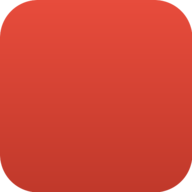
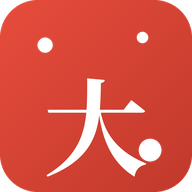
fix(v29): 修复状态栏卡死 + 补齐 PWA 资源 + 同步 26126 期数据
1) 状态栏永远卡在'拉取中...'
   - app.js 调用了不存在的 this.checkDataStatus(),实际方法名是 checkDataFreshness
     → 一旦 fetchFromCloud 抛错就 TypeError,状态栏无法恢复
   - fetch(ep) 无超时,CF Pages 上 Netlify 端点返回 HTML 兜底页导致长时间挂起
   - 修复:加 AbortController 超时(6s)+ 校验 Content-Type + finally 兜底恢复状态栏

2) PWA 资源缺失
   - sw.js 从未部署 → SW 注册失败 + 'unsupported MIME type (text/html)' 报错
   - icon-180.png / icon-512.png / favicon.ico 均 404(实际返回 index.html)
   - 新增按 icon.svg 设计生成的三尺寸 PNG 图标(白'大'字 + 红渐变圆角方块)

3) 文案数字错误
   - index.html / app.js 写'13 个杀号公式',实际为 15 个(前区 10 + 后区 5)

4) 数据同步
   - 追加 2026126 期 (2026-11-04, 前区 05 11 17 25 34, 后区 04 06),累计 534 期

diff --git a/v29-site/sw.js b/v29-site/sw.js
@@ -1,0 +1,119 @@
+// Service Worker for 大乐透专业智能杀号系统 v29
+// 策略:文档网络优先(失败用缓存兜底),静态资源缓存优先(后台异步更新)
+//
+// 注意:预缓存列表必须与 v29 站点的实际文件结构一致。
+// cache.addAll() 遇到任一 404 会整体 reject,导致 SW 安装失败,
+// 因此这里只列出确定存在的文件。
+
+const CACHE_VERSION = 'dlt-v29-pwa-v1';
+const STATIC_CACHE = `${CACHE_VERSION}-static`;
+const RUNTIME_CACHE = `${CACHE_VERSION}-runtime`;
+
+const PRECACHE_URLS = [
+  './',
+  './index.html',
+  './app.js',
+  './formulas.js',
+  './data.js',
+  './devices.js',
+  './styles.css',
+  './manifest.json',
+  './icon.svg',
+  './icon-192.png',
+  './favicon.ico'
+];
+
+self.addEventListener('install', (event) => {
+  console.log('[SW] Install');
+  event.waitUntil(
+    caches.open(STATIC_CACHE)
+      // 逐个添加,单个失败不影响整体安装
+      .then(cache => Promise.all(
+        PRECACHE_URLS.map(url => cache.add(url).catch(err => {
+          console.warn('[SW] 预缓存跳过', url, err && err.message);
+        }))
+      ))
+      .then(() => self.skipWaiting())
+  );
+});
+
+self.addEventListener('activate', (event) => {
+  console.log('[SW] Activate');
+  event.waitUntil(
+    caches.keys()
+      .then(keys => Promise.all(
+        keys
+          .filter(key => key !== STATIC_CACHE && key !== RUNTIME_CACHE)
+          .map(key => {
+            console.log('[SW] 删除旧缓存:', key);
+            return caches.delete(key);
+          })
+      ))
+      .then(() => self.clients.claim())
+  );
+});
+
+self.addEventListener('fetch', (event) => {
+  const { request } = event;
+
+  // 只处理 GET
+  if (request.method !== 'GET') return;
+
+  const url = new URL(request.url);
+  // 跨域请求不接管
+  if (url.origin !== location.origin) return;
+
+  // 云端拉数端点(当前部署在 CF Pages 上不存在,可能返回 HTML 兜底页)不缓存
+  if (url.pathname.startsWith('/api/') || url.pathname.startsWith('/.netlify/functions/')) {
+    return;
+  }
+
+  // HTML 文档:网络优先,失败用缓存
+  if (request.mode === 'navigate' || request.destination === 'document') {
+    event.respondWith(
+      fetch(request)
+        .then(response => {
+          if (response.ok) {
+            const clone = response.clone();
+            caches.open(RUNTIME_CACHE).then(cache => cache.put(request, clone));
+          }
+          return response;
+        })
+        .catch(() => caches.match(request).then(cached => cached || caches.match('./index.html')))
+    );
+    return;
+  }
+
+  // 静态资源:缓存优先 + 后台更新
+  event.respondWith(
+    caches.match(request)
+      .then(cached => {
+        if (cached) {
+          fetch(request)
+            .then(response => {
+              if (response.ok) {
+                caches.open(RUNTIME_CACHE).then(cache => cache.put(request, response.clone()));
+              }
+            })
+            .catch(() => {});
+          return cached;
+        }
+        return fetch(request)
+          .then(response => {
+            if (response.ok) {
+              const clone = response.clone();
+              caches.open(RUNTIME_CACHE).then(cache => cache.put(request, clone));
+            }
+            return response;
+          })
+          .catch(() => new Response('Offline', { status: 503 }));
+      })
+  );
+});
+
+// 接收消息:跳过等待
+self.addEventListener('message', (event) => {
+  if (event.data && event.data.type === 'SKIP_WAITING') {
+    self.skipWaiting();
+  }
+});

diff --git a/v29-site/app.js b/v29-site/app.js
@@ -838,13 +838,28 @@ const APP = {
   async fetchFromCloud(silent = false) {
     // 支持 Netlify / 腾讯云 / 本地(Lighthouse/COS)等任意部署
     // 只要 /api/fetch-latest 或 /.netlify/functions/fetch-latest 可访问
+    //
+    // 注意:当前部署在 Cloudflare Pages 上,这两个 Netlify 端点并不存在,
+    // CF Pages 会返回 index.html(HTML 而非 JSON)。因此必须:
+    //   1) 加超时,避免状态栏永远停在"拉取中..."
+    //   2) 校验 Content-Type,HTML 响应直接判定为端点不可用
+    const CLOUD_TIMEOUT_MS = 6000;
     const tryEndpoints = async () => {
-      // 先试 POST
       for (const ep of ["/.netlify/functions/fetch-latest", "/api/fetch-latest"]) {
+        const ctrl = new AbortController();
+        const timer = setTimeout(() => ctrl.abort(), CLOUD_TIMEOUT_MS);
         try {
-          const r = await fetch(ep, { method: "POST" });
-          if (r.ok) return await r.json();
-        } catch (e) { /* 下个 */ }
+          const r = await fetch(ep, { method: "POST", signal: ctrl.signal });
+          clearTimeout(timer);
+          // 非 JSON 响应(例如 CF Pages 返回的 index.html)视为端点不存在
+          const ct = (r.headers.get("content-type") || "").toLowerCase();
+          if (!r.ok || !ct.includes("application/json")) continue;
+          const j = await r.json();
+          if (j && j.success) return j;
+        } catch (e) {
+          clearTimeout(timer);
+          /* 超时或网络错误,试下一个 */
+        }
       }
       return null;
     };
@@ -877,7 +892,14 @@ const APP = {
       }
     } catch (e) {
       if (!silent) this.toast("云端不可用 - 请手动录入");
-      this.checkDataStatus();
+      this.checkDataFreshness();
+    } finally {
+      // 兜底:无论成功失败,状态栏都不能停在"拉取中..."
+      // (成功/更新的分支已提前 updateDataStatus,这里只在状态仍为"拉取中"时纠正)
+      const ds = document.getElementById("data-status");
+      if (ds && ds.textContent.indexOf("拉取中") !== -1) {
+        this.updateDataStatus(0);
+      }
     }
   },
 
@@ -937,7 +959,7 @@ const APP = {
     showToast(`✓ ${d.period} 期已录入,系统重算中...`, "ok");
     this.learnFromHistory();
     this.selfTuneWeights();
-    this.checkDataStatus();
+    this.checkDataFreshness();
     this.render();
   },
 
@@ -2749,7 +2771,7 @@ const APP = {
       ${learnCard}
       <div class="disclaimer">
         <h4>📊 杀号公式回测分析</h4>
-        <p>本系统基于历史 ${data.length} 期开奖数据,对 13 个杀号公式做回测。
+        <p>本系统基于历史 ${data.length} 期开奖数据,对 15 个杀号公式做回测。
         所有"杀号准确率"均为<strong>过滤型准确率</strong>(杀掉不出现的号),不是预测准确率。
         实际中奖概率仍为每注 1/2142 万,杀号只能减少组合数,无法提高中奖率。</p>
       </div>

diff --git a/v29-site/index.html b/v29-site/index.html
@@ -9,7 +9,7 @@
 <meta name="apple-mobile-web-app-title" content="大乐透杀号">
 <meta name="mobile-web-app-capable" content="yes">
 <meta name="format-detection" content="telephone=no">
-<meta name="description" content="大乐透专业智能杀号系统,基于 13 个杀号公式 + 智能选号 + 复式缩水">
+<meta name="description" content="大乐透专业智能杀号系统,基于 15 个杀号公式 + 智能选号 + 复式缩水">
 <meta http-equiv="Cache-Control" content="no-cache, no-store, must-revalidate">
 <meta http-equiv="Pragma" content="no-cache">
 <meta http-equiv="Expires" content="0">

diff --git a/v29-site/data.js b/v29-site/data.js
@@ -533,7 +533,8 @@ window.DLT_DATA = [
   {period:"2026122", date:"2026-10-26", front:[2,14,21,22,24], back:[2,12]},
   {period:"2026123", date:"2026-10-28", front:[13,18,19,20,28], back:[9,11]},
   {period:"2026124", date:"2026-10-31", front:[12,14,18,22,27], back:[1,9]},
-  {period:"2026125", date:"2026-11-02", front:[12,13,23,25,29], back:[7,10]}
+  {period:"2026125", date:"2026-11-02", front:[12,13,23,25,29], back:[7,10]},
+  {period:"2026126", date:"2026-11-04", front:[5,11,17,25,34], back:[4,6]}
   ];
 
 window.DLT_DATA.sort((a, b) => a.period.localeCompare(b.period));
